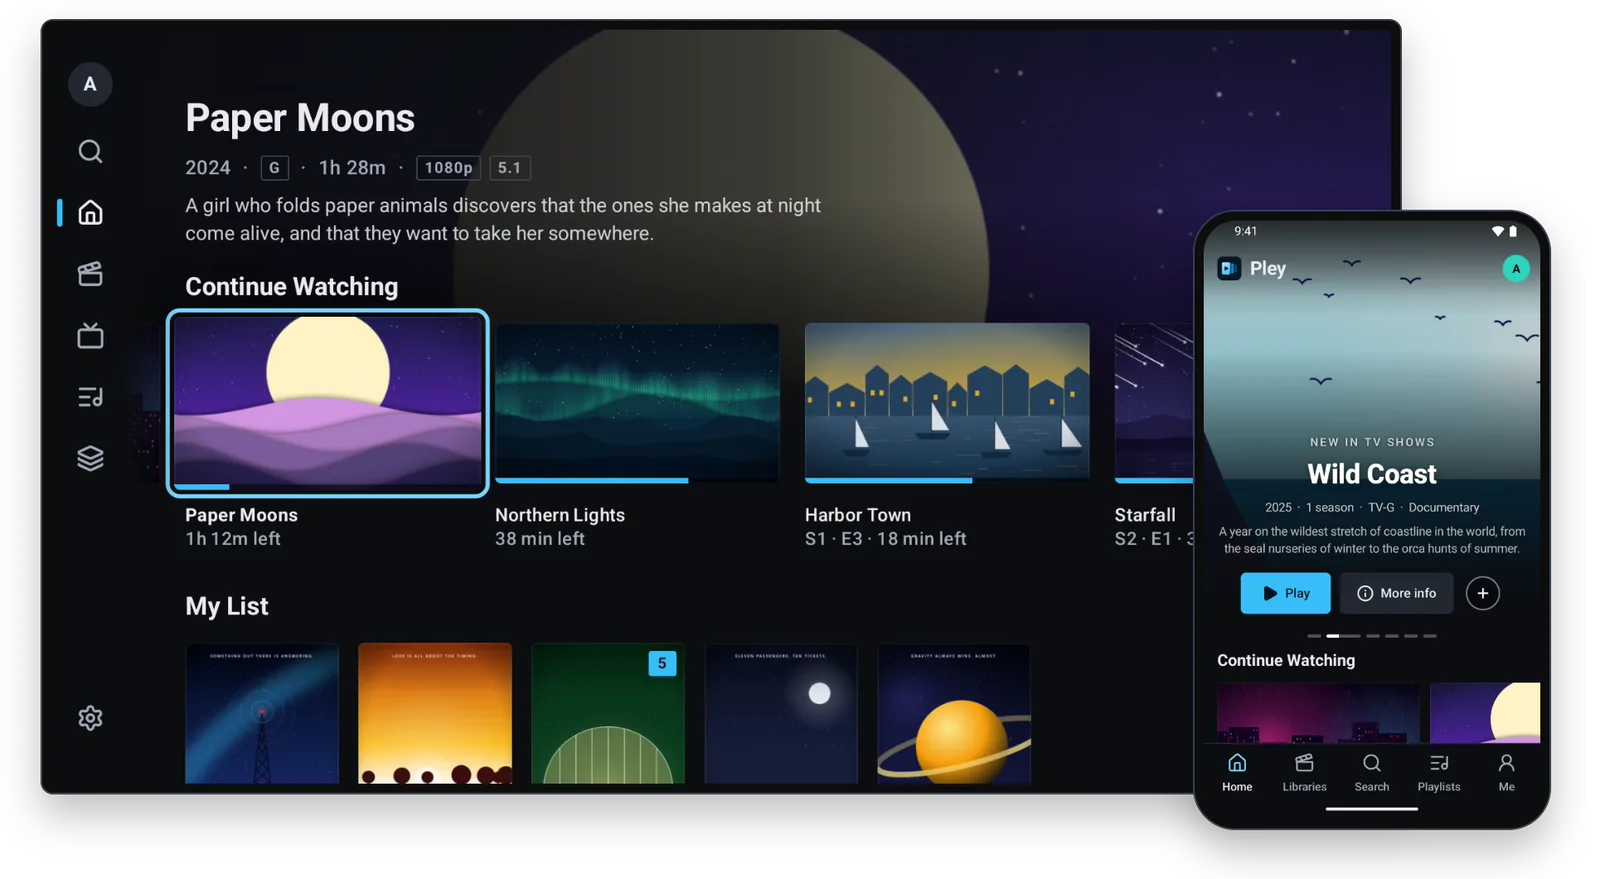
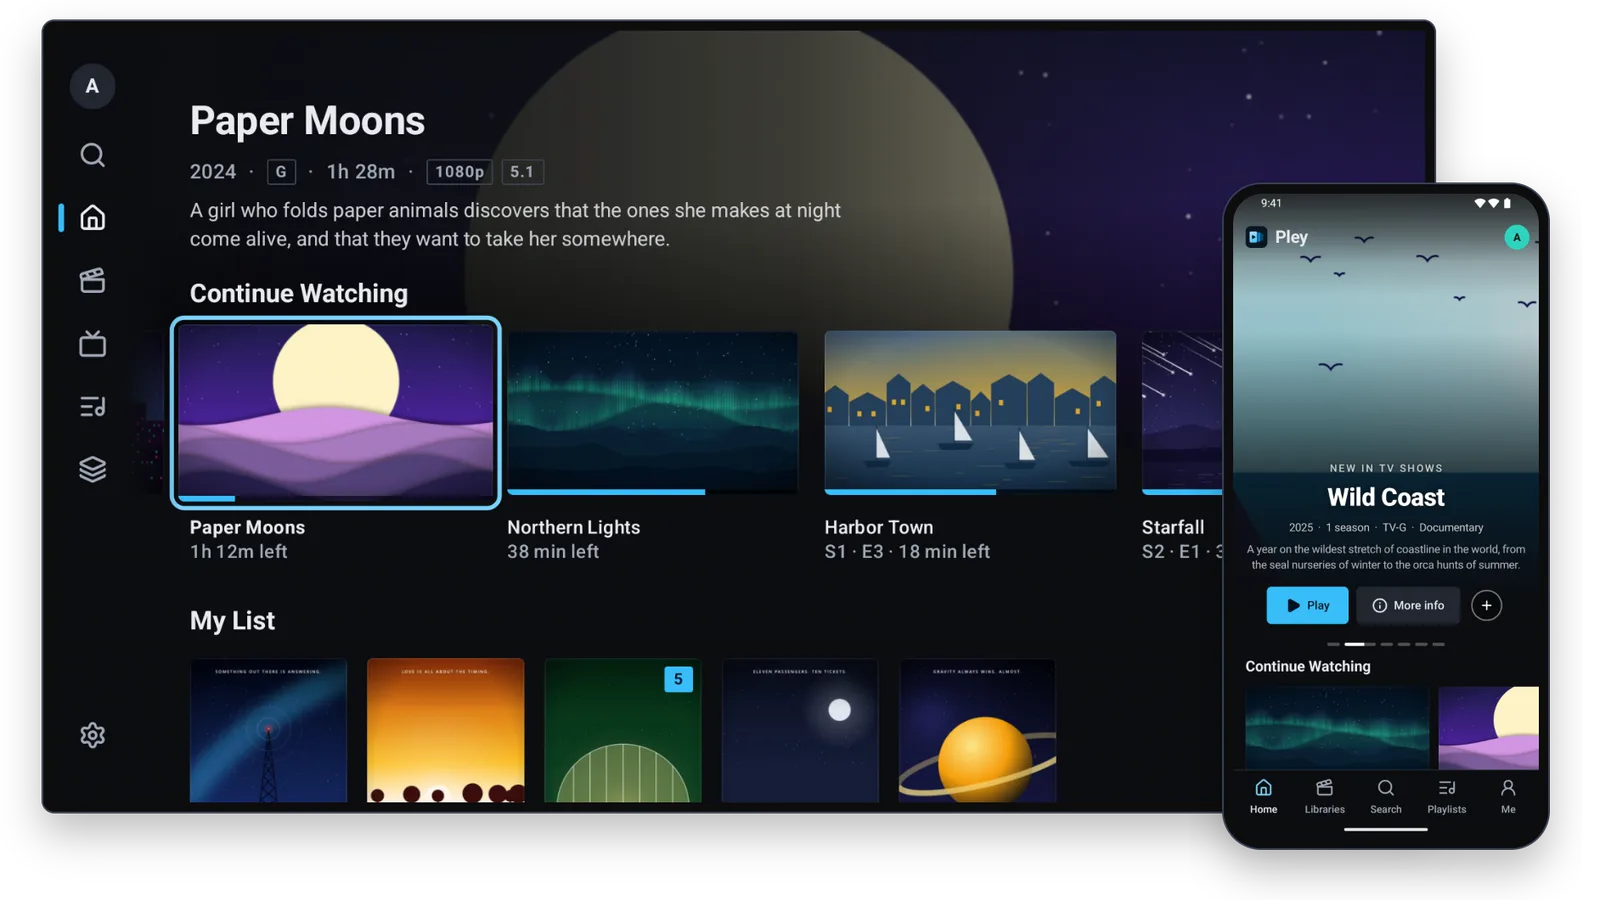
docs: the README's phone is thinner, its status bar even
The phone is the emulator's own 19:9 screen rather than the 16:9 that
Google Play's screenshots use. Android sets the status bar's time
further from the edge than its icons; the picture moves the icons in
to match.

diff --git a/scripts/store-library/README.md b/scripts/store-library/README.md
@@ -30,4 +30,5 @@ My List.
   Google Play takes nothing longer than 2:1.
 - `bun scripts/store-library/devices.mjs <tv.png> <phone.png>` draws the
   README's picture (`docs/images/apps.webp`) from screenshots of the TV and
-  phone apps on Home. It needs `ffmpeg` on `PATH`.
+  phone apps on Home, the phone at `pley_test`'s own 1080 × 2280. It needs
+  `ffmpeg` on `PATH`.
